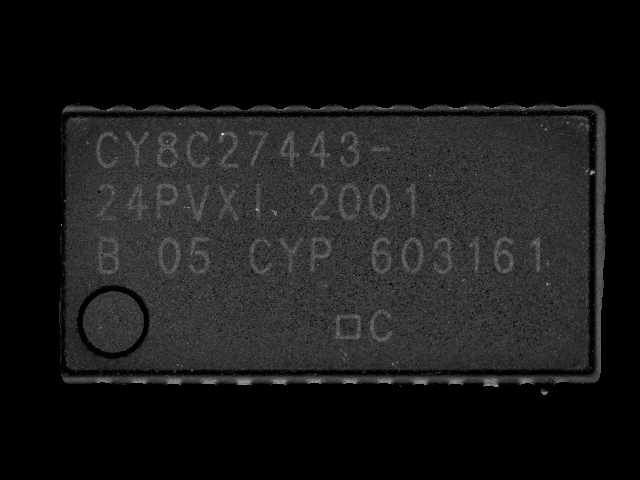
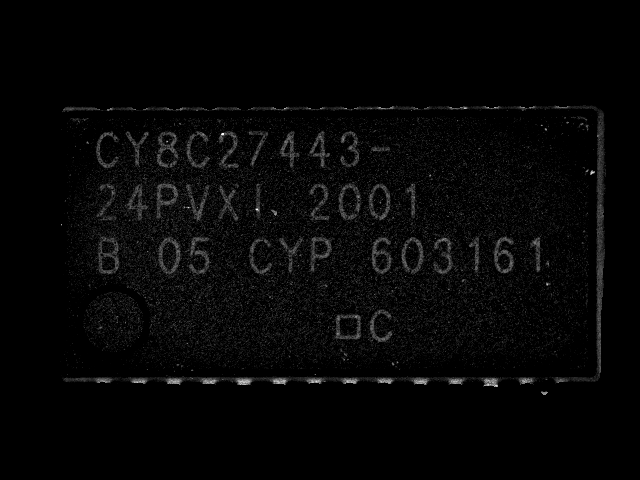
added contrast function. Will show images before and after contrast. Saves images with contrast to th_imgs folder

diff --git a/marking.py b/marking.py
@@ -133,6 +133,16 @@ def threshold(img, threshold_setting):
 
     return (ret4, th4)
 
+# contrast function from @/pietz on StackOverflow:
+def adjust_contrast_brightness(img, contrast:float=1.0, brightness:int=0):
+    """
+    Adjusts contrast and brightness of an uint8 image.
+    contrast:   (0.0,  inf) with 1.0 leaving the contrast as is
+    brightness: [-255, 255] with 0 leaving the brightness as is
+    """
+    brightness += int(round(255*(1-contrast)/2))
+    return cv2.addWeighted(img, contrast, img, 0, brightness)
+
 img_list = ["marking_images/A-J-28SOP-03F-SM.png", "marking_images/C-T-08DIP-11F-SM.png", "marking_images/C-T-48QFP-19F-SM.png", "marking_images/C-T-48QFP-20F-SM.png"]
 
 # img = cv2.imread("marking_images/A-J-28SOP-03F-SM.png")
@@ -150,23 +160,30 @@ for i in img_list:
     blur = cv2.GaussianBlur(th, (51, 51), 0)
     _, th = cv2.threshold(blur, 200, 255, cv2.THRESH_BINARY)
     img = img & th
-    os.chdir("th_imgs")
-    cv2.imwrite("thImg_{}.png".format(temp), img)
-    cv2.imshow("", img)
+
+    # -------- comment out this section to get rid of contrast
+    cv2.imshow("", img) #shows image after threshholding and before adjusting brightness/contrast
+    cv2.waitKey(0)
+    cv2.destroyAllWindows()
+    img = adjust_contrast_brightness(img, 2, 25) # I arbitrarily chose numbers and adjusted from there, feel free to edit
+    # ---------- ^^
+
+    os.chdir("th_imgs") # change directory to th_imgs folder
+    cv2.imwrite("thImg_{}.png".format(temp), img) # save the updated thresholded image
+    cv2.imshow("", img) #shows image after adjusting brightness/contrast
     cv2.waitKey(0)
     cv2.destroyAllWindows()
     temp = temp+1
-    os.chdir("..")
+    os.chdir("..") 
 
 
-th_img_list = glob.glob("th_imgs/*.png")
+th_img_list = glob.glob("th_imgs/*.png") # create a list of all images with .png filetype in the th_imgs folder
 # print(th_img_list)
 
 reader = easyocr.Reader(['en']) # OCR reader object
 
 for img in th_img_list:
-    result = reader.readtext(img)
-
+    result = reader.readtext(img) 
     print("\nMarkings on "+img, ": \n")
     for detection in result:
-        print(detection[1])
+        print(detection[1]) # for all imgs in list, read text with OCR reader and print
